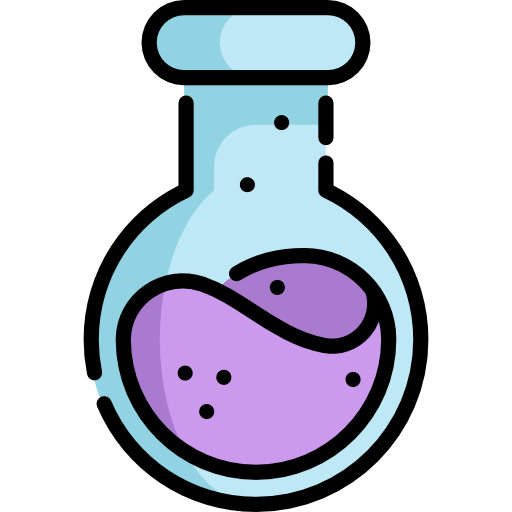
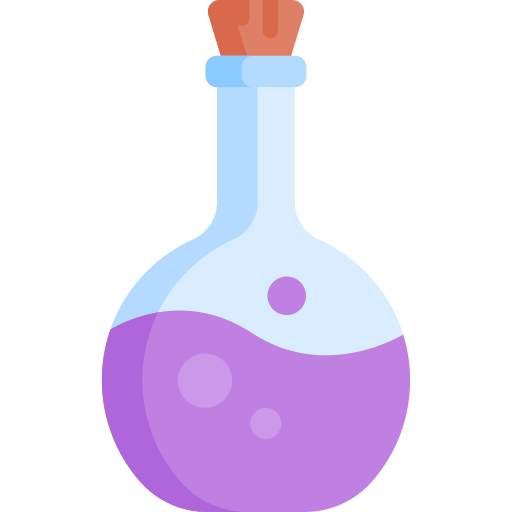
Added loading scene

diff --git a/src/main/resources/styles/Loading.css b/src/main/resources/styles/Loading.css
@@ -1,0 +1,20 @@
+.label{
+    -fx-font-family: 'Blackadder ITC';
+    -fx-text-fill: white;
+    -fx-font-size: 60;
+    -fx-effect: dropshadow(gaussian, white, 3, 0, 0, 0);
+}
+
+.root{
+    -fx-background-image: url(/images/florence_0.jpg);
+    -fx-background-size: cover;
+    -fx-background-position: left;
+    -fx-cursor: default;
+}
+
+.container {
+    -fx-background-color: rgba(0, 0, 0, 0.4);
+    -fx-background-size: cover;
+    -fx-background-position: left;
+    -fx-cursor: default;
+}

diff --git a/src/main/resources/styles/MPSelection.css b/src/main/resources/styles/MPSelection.css
@@ -41,7 +41,7 @@ HBox{
 }
 
 .root{
-    -fx-background-image: url(/images/florence_3.jpg);
+    -fx-background-image: url(/images/florence_0.jpg);
     -fx-background-size: cover;
     -fx-background-position: left;
     -fx-cursor: default;

diff --git a/src/main/resources/styles/MainMenu.css b/src/main/resources/styles/MainMenu.css
@@ -33,7 +33,7 @@ VBox{
 }
 
 .root{
-    -fx-background-image: url(/images/florence_2.jpg);
+    -fx-background-image: url(/images/florence_0.jpg);
     -fx-background-size: cover;
     -fx-background-position: left;
     -fx-cursor: default;

diff --git a/src/main/java/it/polimi/ingsw/application/gui/scenes/GUIConnSettings.java b/src/main/java/it/polimi/ingsw/application/gui/scenes/GUIConnSettings.java
@@ -47,26 +47,19 @@ public class GUIConnSettings implements Initializable, PacketListener {
 
         // Setup animation
         Timer timer = new Timer();
-        RotateTransition flaskAnimation = new RotateTransition(Duration.millis(TIMEOUT_TIME), loadingFlask);
-        flaskAnimation.setByAngle(1080);
-        flaskAnimation.setInterpolator(Interpolator.LINEAR);
-        flaskAnimation.setCycleCount(Animation.INDEFINITE);
 
         timeoutTask = new TimerTask() {
             @Override
             public void run() {
+                disableButtons(false);
                 if(GameApplication.getInstance().isOnNetwork()) return;
                 GameApplication.getInstance().out("Oops, make sure the server is online and the address and port are correct!");
-                flaskAnimation.stop();
-                loadingFlask.setVisible(false);
-                disableButtons(false);
+                Platform.runLater(GUIScene.CONN_SETTINGS::load);
             }
         };
         timer.schedule(timeoutTask, TIMEOUT_TIME);
 
-        // Start animation
-        flaskAnimation.play();
-        loadingFlask.setVisible(true);
+        GUIScene.showLoadingScene();
 
         // Start the connection on a new thread
         new Thread(() -> GameApplication.getInstance().connect(address, port)).start();
@@ -96,7 +89,6 @@ public class GUIConnSettings implements Initializable, PacketListener {
             System.out.println(GameApplication.getInstance().isOnNetwork());
             Platform.runLater(() -> {
                 timeoutTask.cancel();
-                loadingFlask.setVisible(false);
                 disableButtons(false);
                 GUIScene.MAIN_MENU.load();
             });

diff --git a/src/main/java/it/polimi/ingsw/application/gui/GUIScene.java b/src/main/java/it/polimi/ingsw/application/gui/GUIScene.java
@@ -17,7 +17,8 @@ public enum GUIScene {
     SETTINGS("GUISettings.fxml", true),
     CONN_SETTINGS("GUIConnSettings.fxml", true),
     CHOOSE_RESOURCE("GUIChooseResource.fxml", false),
-    WAREHOUSE("GUIWarehouse.fxml", false);
+    WAREHOUSE("GUIWarehouse.fxml", false),
+    LOADING("GUILoading.fxml", false);
 
     /* FXML ATTRIBUTES */
     private static final String FXML_DIRECTORY = "/scenes/";
@@ -30,6 +31,7 @@ public enum GUIScene {
 
     /* ACTIVE SCENE */
     private static PacketListener activeScene;
+    private static Scene nextLoadingScene;
 
     /**
      * Create a new GUIScene.
@@ -89,6 +91,26 @@ public enum GUIScene {
                     e.printStackTrace();
                 }
             }
+            if(guiScene == LOADING) {
+                try {
+                    Parent loadedSceneView = new FXMLLoader(LOADING.getClass().getResource(LOADING.fxmlPath)).load();
+                    nextLoadingScene = new Scene(loadedSceneView);
+                } catch (IOException e) {
+                    e.printStackTrace();
+                }
+            }
         }
+    }
+
+    public static Scene showLoadingScene() {
+        Scene loadingScene = LOADING.produceScene();
+        GUIApplication.setScene(loadingScene);
+        try {
+            Parent loadedSceneView = new FXMLLoader(LOADING.getClass().getResource(LOADING.fxmlPath)).load();
+            nextLoadingScene = new Scene(loadedSceneView);
+        } catch (IOException e) {
+            e.printStackTrace();
+        }
+        return loadingScene;
     }
 }

diff --git a/src/main/java/it/polimi/ingsw/application/gui/scenes/GUILoading.java b/src/main/java/it/polimi/ingsw/application/gui/scenes/GUILoading.java
@@ -1,0 +1,33 @@
+package it.polimi.ingsw.application.gui.scenes;
+
+import it.polimi.ingsw.application.common.GameApplication;
+import javafx.animation.Animation;
+import javafx.animation.Interpolator;
+import javafx.animation.RotateTransition;
+import javafx.fxml.Initializable;
+import javafx.scene.image.ImageView;
+import javafx.util.Duration;
+
+import java.net.URL;
+import java.util.ResourceBundle;
+import java.util.Timer;
+import java.util.TimerTask;
+
+public class GUILoading implements Initializable {
+    public static int MAXIMUM_TIME = Integer.MAX_VALUE;
+    public static double ROTATION_PER_SECOND = 1;
+    public ImageView loadingFlask;
+
+    @Override
+    public void initialize(URL url, ResourceBundle resourceBundle) {
+        // Setup animation
+        RotateTransition flaskAnimation = new RotateTransition(Duration.seconds(MAXIMUM_TIME), loadingFlask);
+        flaskAnimation.setByAngle(MAXIMUM_TIME * ROTATION_PER_SECOND * 360);
+        flaskAnimation.setInterpolator(Interpolator.LINEAR);
+        flaskAnimation.setCycleCount(Animation.INDEFINITE);
+
+        // Start animation
+        flaskAnimation.play();
+        loadingFlask.setVisible(true);
+    }
+}

diff --git a/src/main/java/it/polimi/ingsw/application/gui/scenes/GUIGameModeSelection.java b/src/main/java/it/polimi/ingsw/application/gui/scenes/GUIGameModeSelection.java
@@ -31,6 +31,7 @@ public class GUIGameModeSelection {
 
     @FXML
     private void onSPClick() {
+        GUIScene.showLoadingScene();
         new Thread(() -> {
             GameApplication.getInstance().startSPGame();
             while (GameApplication.getInstance().getApplicationState() == GameApplicationState.PREGAME) {}

diff --git a/src/main/java/it/polimi/ingsw/application/gui/scenes/GUIPreGame.java b/src/main/java/it/polimi/ingsw/application/gui/scenes/GUIPreGame.java
@@ -277,6 +277,7 @@ public class GUIPreGame implements Initializable, CommonDataObserver, LeadersToC
 
     @FXML
     public void ready(){
+        GUIScene.showLoadingScene();
         button.setDisable(true);
         int cont = 0;
         LeadCard[] actionLeaders = new LeadCard[2];
